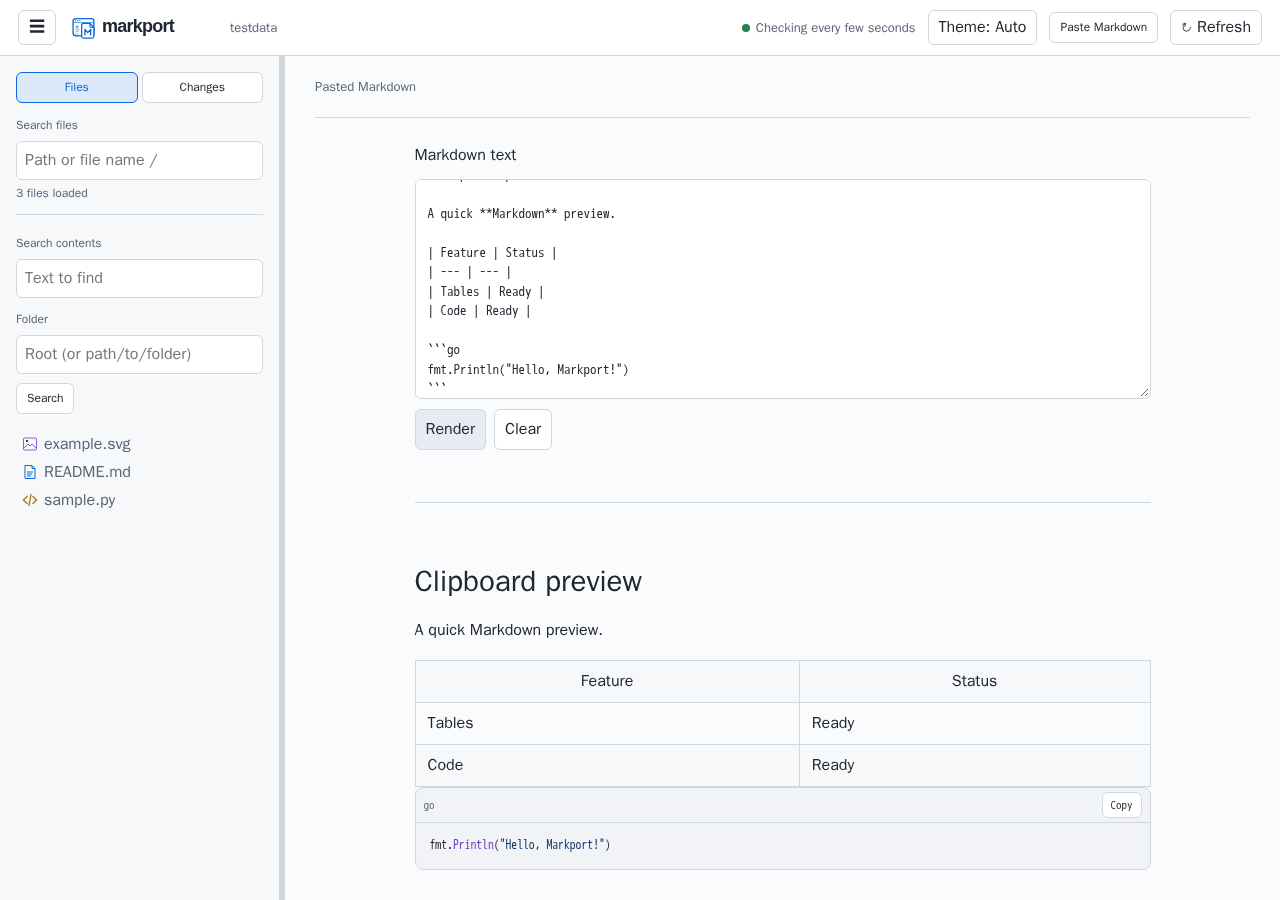
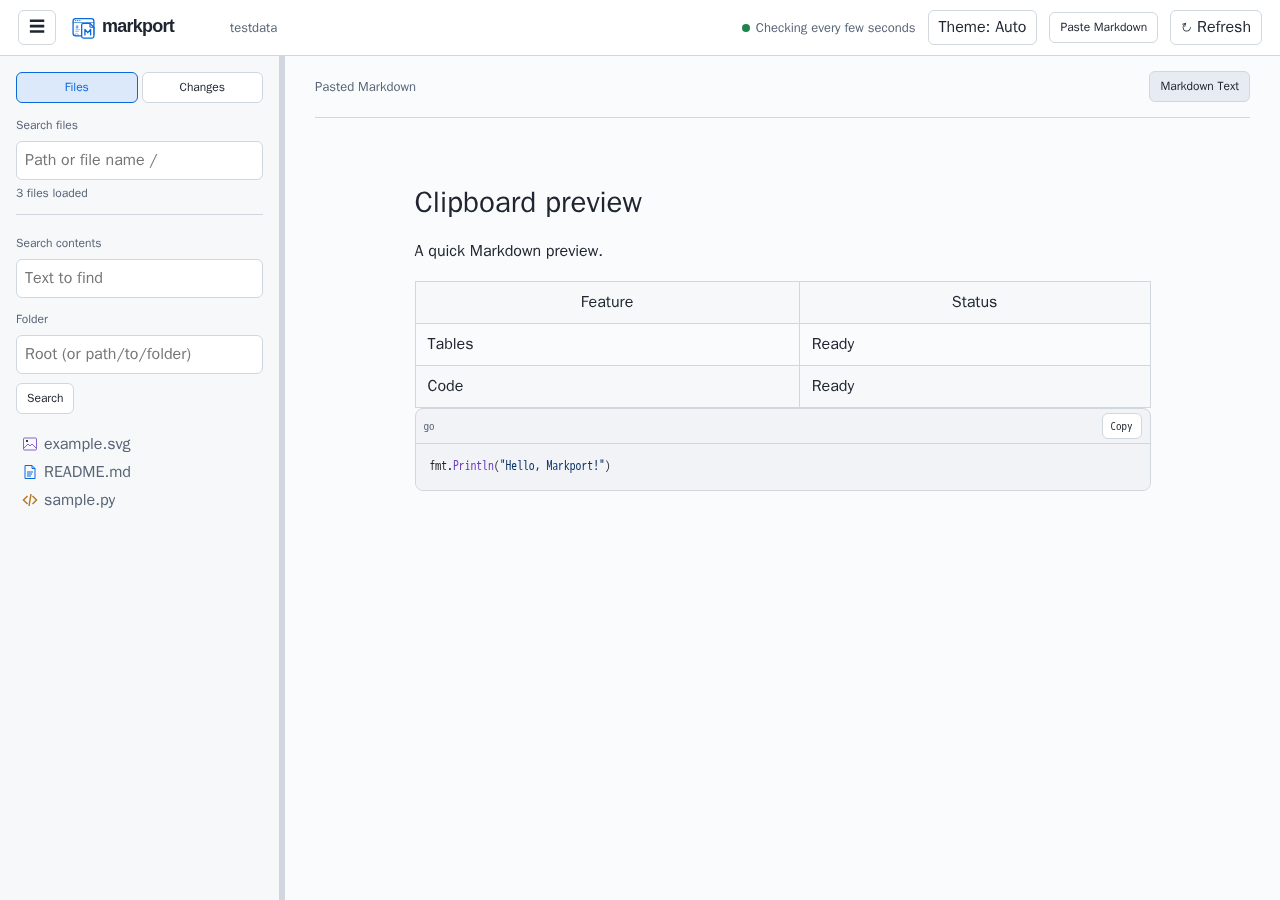
Switch pasted Markdown between text and rendered views

diff --git a/web/src/style.css b/web/src/style.css
@@ -4,7 +4,7 @@
 *{box-sizing:border-box}body{margin:0;background:var(--bg);color:var(--text)}button,input,textarea{font:inherit}button{border:1px solid var(--border);background:var(--surface);color:var(--text);border-radius:6px;padding:6px 10px;cursor:pointer}button:hover{background:var(--hover)}button:disabled{opacity:.55;cursor:wait}button:focus-visible,input:focus-visible,textarea:focus-visible,nav a:focus-visible,summary:focus-visible{outline:2px solid var(--accent);outline-offset:-2px}.skip-link{position:absolute;left:10px;top:-60px;z-index:20;background:var(--surface);padding:8px;color:var(--accent)}.skip-link:focus{top:4px}
 header{height:56px;display:flex;align-items:center;gap:12px;padding:0 18px;border-bottom:1px solid var(--border);background:var(--surface)}.brand{display:inline-flex;align-items:center;flex:none}.brand-horizontal{display:block;width:150px;height:35px}.brand-symbol{display:none}#root-name{font-size:13px;color:var(--text-muted);margin-right:auto;overflow:hidden;text-overflow:ellipsis;white-space:nowrap}#connection{display:flex;align-items:center;gap:6px;font-size:13px;color:var(--text-muted);white-space:nowrap}#connection:before{content:"";width:8px;height:8px;border-radius:50%;background:var(--warning)}#connection[data-state=ok]:before{background:var(--success)}#connection[data-state=error]:before{background:var(--danger)}#drawer-toggle{display:none}.reload-icon{display:inline-block;font-size:18px;line-height:14px}#reload:disabled .reload-icon{animation:spin 1s linear infinite}@keyframes spin{to{transform:rotate(360deg)}}
 #paste-toggle{font-size:12px;white-space:nowrap}
-.paste-editor{display:grid;gap:10px;margin:24px 0}.paste-editor label{font-weight:650}.paste-editor textarea{width:100%;min-height:220px;resize:vertical;padding:12px;border:1px solid var(--border);border-radius:6px;background:var(--surface);color:var(--text);font-family:var(--mono);font-size:13px;line-height:1.5}.paste-actions{display:flex;gap:8px}.paste-notice{min-height:1.4em;margin:0;color:var(--text-muted);font-size:13px}.paste-notice.error{color:var(--danger)}.paste-preview{border-top:1px solid var(--border);padding-top:18px}.paste-preview:empty{display:none}
+.paste-editor{display:grid;gap:10px;margin:24px 0}.paste-editor label{font-weight:650}.paste-editor textarea{width:100%;min-height:clamp(320px,55vh,700px);resize:vertical;padding:12px;border:1px solid var(--border);border-radius:6px;background:var(--surface);color:var(--text);font-family:var(--mono);font-size:13px;line-height:1.5}.paste-actions{display:flex;gap:8px}.paste-notice{min-height:1.4em;margin:0;color:var(--text-muted);font-size:13px}.paste-notice.error{color:var(--danger)}
 .layout{display:grid;grid-template-columns:var(--sidebar-width) 5px minmax(0,1fr);height:calc(100vh - 56px)}aside{border-right:1px solid var(--border);overflow:auto;padding:16px;background:var(--sidebar);min-width:0}aside.collapsed{display:none}.layout:has(aside.collapsed){grid-template-columns:minmax(0,1fr)}.layout:has(aside.collapsed) #sidebar-resize{display:none}#sidebar-resize{cursor:col-resize;background:var(--border)}aside label{display:block;font-size:12px;font-weight:650;color:var(--text-muted)}input{width:100%;margin:7px 0 5px;padding:8px;border:1px solid var(--border);border-radius:6px;background:var(--surface);color:var(--text)}#result-count{display:block;margin-bottom:12px;font-size:12px;color:var(--text-muted)}nav ul{list-style:none;padding-left:13px;margin:2px 0;border-left:1px solid var(--border)}nav>ul{padding-left:0;border-left:0}nav li{min-width:0}nav a,nav summary{display:flex;align-items:center;gap:6px;min-height:28px;min-width:0;padding:2px 6px;border-radius:4px;color:var(--text-muted);text-decoration:none;cursor:pointer}nav a:hover,nav summary:hover{background:var(--hover)}nav a[aria-current]{background:var(--accent-soft);color:var(--accent);font-weight:650;border-left:3px solid var(--accent);padding-left:3px}nav summary{list-style:none}nav summary::-webkit-details-marker{display:none}.chevron{font-size:18px;line-height:1;transition:transform .15s}details[open]>summary .chevron{transform:rotate(90deg)}nav svg{width:16px;height:16px;flex:none}nav .file-markdown svg{color:var(--accent)}nav .file-image svg{color:#8a63c9}nav .file-code svg{color:#b67b24}.node-label{overflow:hidden;text-overflow:ellipsis;white-space:nowrap}mark{background:#ffdb6d;color:#352700}.search-results{padding:0;border:0}.search-results .node-label{font-size:12px}
 main{overflow:auto;padding:0 30px 80px;min-width:0}#connection-banner{margin:0 -30px;padding:7px 30px;background:var(--danger-bg);color:var(--danger);font-size:13px}#connection-banner[hidden]{display:none}#connection-banner button{margin-left:12px}#file-title{position:sticky;top:0;z-index:5;display:flex;align-items:center;justify-content:space-between;gap:12px;min-height:var(--titlebar-h);background:var(--bg);border-bottom:1px solid var(--border);padding:8px 0;color:var(--text-muted);font-size:13px}#file-title.updated{box-shadow:inset 0 -3px var(--success)}.breadcrumbs{min-width:0;overflow:hidden;text-overflow:ellipsis;white-space:nowrap}.breadcrumbs strong{color:var(--text)}.breadcrumbs .missing{text-decoration:line-through}.crumb{border:0;background:none;padding:2px;color:var(--accent)}.title-actions{display:flex;align-items:center;gap:6px;white-space:nowrap}.title-actions button{font-size:12px}.kind-badge{border:1px solid var(--border);border-radius:12px;padding:2px 8px}.update-note{color:var(--success);font-weight:650}#progress{position:sticky;top:var(--titlebar-h);height:3px;background:linear-gradient(90deg,transparent,var(--accent),transparent);z-index:6;animation:progress 1.2s ease-in-out infinite}#progress[hidden]{display:none}@keyframes progress{from{background-position:-200px 0}to{background-position:200px 0}}
 .content-layout{display:grid;grid-template-columns:minmax(0,1fr);gap:25px}.content-layout:has(#outline:not([hidden])){grid-template-columns:minmax(0,1fr) 190px}article{max-width:46em;width:100%;margin:24px auto;line-height:1.68;overflow-wrap:anywhere}article[data-kind=code]{max-width:none;font-family:var(--mono);line-height:1.5}article>*:first-child{margin-top:0}article :is(h1,h2,h3,h4,h5,h6){line-height:1.3;margin:1.4em 0 .55em;scroll-margin-top:calc(var(--titlebar-h) + 12px)}article h1{font-size:1.85em}article h2{font-size:1.45em;border-bottom:1px solid var(--border);padding-bottom:.3em}article h3{font-size:1.25em}article h4{font-size:1.1em}article h5{font-size:1em}article h6{font-size:.9em;color:var(--text-muted)}article a{color:var(--accent)}article img{max-width:100%}.table-wrap{overflow-x:auto;max-width:100%}article table{border-collapse:collapse;width:max-content;min-width:100%}article th,article td{padding:7px 12px;border:1px solid var(--border)}article thead{position:relative;z-index:1;background:var(--sidebar)}article tr:nth-child(even){background:var(--sidebar)}article pre{overflow-x:auto;max-width:100%;padding:14px;background:var(--code-bg);border-radius:7px;line-height:1.5;font-family:var(--mono);font-size:.9em}article pre code{white-space:pre}article :not(pre)>code,article kbd{background:var(--code-bg);padding:2px 4px;border-radius:4px;font-family:var(--mono);font-size:.9em}article kbd{border:1px solid var(--border)}article blockquote{border-left:3px solid var(--border);padding-left:16px;color:var(--text-muted);margin-left:0}article ul,article ol{padding-left:1.5em}article li+li{margin-top:.25em}article li:has(> input[type=checkbox]){list-style:none;margin-left:-1.2em}article li>input[type=checkbox]{width:auto;margin-right:.5em}article hr{border:0;border-top:1px solid var(--border);margin:2em 0}article details{border:1px solid var(--border);border-radius:6px;padding:8px 12px}article summary{cursor:pointer}.hint{color:var(--text-muted)}.empty-state{padding:60px 0;text-align:center;color:var(--text-muted)}.empty-state h2{color:var(--text)}.file-error{color:var(--danger);background:var(--danger-bg);padding:20px;border-radius:8px}.file-error h2{font-size:1.2em;margin:8px 0}.file-error p{margin:0 0 16px}.diagram-error{color:var(--danger)}.image-error{display:inline-block;padding:16px;border:1px dashed var(--danger);color:var(--danger)}
@@ -12,7 +12,7 @@ main{overflow:auto;padding:0 30px 80px;min-width:0}#connection-banner{margin:0 -
 #outline{position:sticky;top:calc(var(--titlebar-h) + 20px);align-self:start;max-height:calc(100vh - 110px);overflow:auto;padding:10px 0;font-size:12px}#outline[hidden]{display:none}#outline a{display:block;text-decoration:none;color:var(--text-muted);padding:4px 8px;border-left:2px solid var(--border)}#outline a.active{color:var(--accent);border-color:var(--accent)}#outline .outline-h3,#outline .outline-h4,#outline .outline-h5,#outline .outline-h6{padding-left:20px}#outline-toggle{display:none}
 @media(max-width:1199px){.content-layout{display:block}#outline{display:none;position:fixed;right:20px;top:110px;z-index:10;background:var(--surface);border:1px solid var(--border);padding:10px;box-shadow:0 8px 28px #0004}#outline.open{display:block}#outline-toggle:not([hidden]){display:inline-block}}
 @media(max-width:700px){header{height:48px;padding:0 8px;gap:6px}.brand-horizontal{display:none}.brand-symbol{display:block;width:30px;height:30px}#drawer-toggle{display:inline-block}#sidebar-toggle{display:none}#root-name{font-size:11px}#connection .connection-label{position:absolute;width:1px;height:1px;padding:0;margin:-1px;overflow:hidden;clip:rect(0,0,0,0);white-space:nowrap;border:0}#connection:before{width:10px;height:10px}#theme-toggle{font-size:11px;padding:5px}#reload{font-size:0;padding:5px}#reload .reload-icon{font-size:19px}.layout{display:block;height:calc(100vh - 48px)}aside{position:fixed;top:48px;bottom:0;left:0;width:min(85vw,360px);z-index:20;box-shadow:5px 0 18px #0004;transform:translateX(-110%);transition:transform .2s}aside.open{transform:translateX(0)}#sidebar-resize{display:none}main{height:100%;padding:0 16px 60px}#connection-banner{margin:0 -16px;padding:7px 16px}#file-title{align-items:flex-start;flex-direction:column;padding:8px 0;min-height:70px}.title-actions{max-width:100%;overflow-x:auto}nav a,nav summary{min-height:40px}article{margin:18px auto}article .code-frame,article .table-wrap{margin-left:-16px;margin-right:-16px;border-radius:0}#outline{right:10px;top:100px}}
-@media(max-width:700px){#paste-toggle{font-size:11px;padding:5px}.paste-editor textarea{min-height:180px}}
+@media(max-width:700px){#paste-toggle{font-size:11px;padding:5px}.paste-editor textarea{min-height:45vh}}
 @media(prefers-reduced-motion:reduce){*,*:before,*:after{animation:none!important;transition:none!important;scroll-behavior:auto!important}}
 
 #file-title:focus{outline:none}

diff --git a/web/src/main.ts b/web/src/main.ts
@@ -73,6 +73,7 @@ const maxPasteBytes = 1 << 20;
 let pastedMarkdown = '';
 try { pastedMarkdown = sessionStorage.getItem(pasteStorageKey) ?? ''; } catch { /* Storage may be unavailable. */ }
 let pasteVersion = 0;
+let refreshPastedPreview: (() => void) | undefined;
 let loadingTimer: ReturnType<typeof setTimeout> | undefined;
 let updatedTimer: ReturnType<typeof setTimeout> | undefined;
 let searchIndexTimer: ReturnType<typeof setTimeout> | undefined;
@@ -352,43 +353,53 @@ function showEmpty(): void {
 }
 function showPaste(): void {
   content.dataset.kind = 'paste';
-  title.textContent = 'Pasted Markdown';
+  const heading = document.createElement('strong'); heading.textContent = 'Pasted Markdown';
+  const titleActions = document.createElement('div'); titleActions.className = 'title-actions';
+  const toggle = document.createElement('button'); toggle.type = 'button'; toggle.id = 'paste-view-toggle'; toggle.textContent = 'Rendered view';
+  titleActions.append(toggle); title.replaceChildren(heading, titleActions);
   document.title = 'Pasted Markdown — markport';
   outline.hidden = true;
   const editor = document.createElement('div'); editor.className = 'paste-editor';
-  const label = document.createElement('label'); label.htmlFor = 'paste-input'; label.textContent = 'Markdown text';
+  const label = document.createElement('label'); label.htmlFor = 'paste-input'; label.textContent = 'Markdown Text';
   const input = document.createElement('textarea'); input.id = 'paste-input'; input.placeholder = 'Paste Markdown here'; input.value = pastedMarkdown;
   const actions = document.createElement('div'); actions.className = 'paste-actions';
-  const renderButton = document.createElement('button'); renderButton.type = 'button'; renderButton.textContent = 'Render';
   const clearButton = document.createElement('button'); clearButton.type = 'button'; clearButton.textContent = 'Clear';
   const notice = document.createElement('p'); notice.className = 'paste-notice'; notice.setAttribute('role', 'status');
-  const preview = document.createElement('div'); preview.className = 'paste-preview';
-  actions.append(renderButton, clearButton); editor.append(label, input, actions, notice);
+  const preview = document.createElement('div'); preview.className = 'paste-preview'; preview.hidden = true;
+  actions.append(clearButton); editor.append(label, input, actions, notice);
   content.replaceChildren(editor, preview);
+  let rendered = false;
+  let renderedMarkdown = '';
   const message = (text: string, error = false): void => { notice.textContent = text; notice.classList.toggle('error', error); };
-  const clearPreview = (): void => { preview.replaceChildren(); updateOutline(); };
-  const renderPaste = async (): Promise<void> => {
+  const showText = (): void => {
+    pasteVersion++; rendered = false; editor.hidden = false; preview.hidden = true; toggle.textContent = 'Rendered view';
+    outlineObserver?.disconnect(); outline.replaceChildren(); outline.hidden = true; input.focus();
+  };
+  const renderPaste = async (force = false): Promise<void> => {
     const markdown = input.value;
-    const current = ++pasteVersion;
-    clearPreview();
     if (!markdown.trim()) { message('Paste Markdown text to render.', true); return; }
     if (new TextEncoder().encode(markdown).length > maxPasteBytes) { message('Markdown exceeds the 1 MiB limit.', true); return; }
-    renderButton.disabled = true; message('Rendering…');
+    const current = ++pasteVersion;
+    rendered = true; editor.hidden = true; preview.hidden = false; toggle.textContent = 'Markdown Text';
+    if (!force && renderedMarkdown === markdown) { updateOutline(); return; }
+    preview.textContent = 'Rendering…'; outline.hidden = true;
     try {
       const response = await fetch('/api/render', { method: 'POST', headers: { 'Content-Type': 'application/json' }, body: JSON.stringify({ markdown }) });
       const body = await response.json() as { html?: string } & ApiError;
       if (!response.ok) throw new RequestError(body.error ?? 'network', body.message ?? `HTTP ${response.status}`);
       if (typeof body.html !== 'string') throw new RequestError('invalid_response', 'Invalid render response');
-      if (current !== pasteVersion || selectedMode() !== 'paste') return;
-      preview.innerHTML = body.html; decorateContent(); updateOutline();
+      if (current !== pasteVersion || selectedMode() !== 'paste' || !rendered) return;
+      preview.innerHTML = body.html; renderedMarkdown = markdown; decorateContent(); updateOutline();
       message('');
-      void drawMermaid(content, () => current === pasteVersion && selectedMode() === 'paste');
+      void drawMermaid(content, () => current === pasteVersion && selectedMode() === 'paste' && rendered);
     } catch (error) {
-      if (current === pasteVersion && selectedMode() === 'paste') message(error instanceof Error ? error.message : 'Cannot render Markdown.', true);
-    } finally { if (current === pasteVersion) renderButton.disabled = false; }
+      if (current === pasteVersion && selectedMode() === 'paste' && rendered) {
+        showText(); message(error instanceof Error ? error.message : 'Cannot render Markdown.', true);
+      }
+    }
   };
   input.addEventListener('input', () => {
-    pasteVersion++; pastedMarkdown = input.value; renderButton.disabled = false; clearPreview(); message('');
+    pasteVersion++; pastedMarkdown = input.value; renderedMarkdown = ''; preview.replaceChildren(); message('');
     try {
       if (new TextEncoder().encode(pastedMarkdown).length > maxPasteBytes) {
         sessionStorage.removeItem(pasteStorageKey); message('Markdown exceeds the 1 MiB limit.', true);
@@ -396,13 +407,13 @@ function showPaste(): void {
       else sessionStorage.removeItem(pasteStorageKey);
     } catch { message('This tab could not save the text for reloading.', true); }
   });
-  renderButton.addEventListener('click', () => { void renderPaste(); });
+  toggle.addEventListener('click', () => { if (rendered) showText(); else void renderPaste(); });
   clearButton.addEventListener('click', () => {
-    pasteVersion++; pastedMarkdown = ''; input.value = ''; renderButton.disabled = false; clearPreview(); message('');
+    pasteVersion++; pastedMarkdown = ''; renderedMarkdown = ''; input.value = ''; preview.replaceChildren(); message('');
     try { sessionStorage.removeItem(pasteStorageKey); } catch { message('This tab could not clear saved text.', true); }
     input.focus();
   });
-  if (pastedMarkdown) void renderPaste();
+  refreshPastedPreview = () => { if (rendered) void renderPaste(true); };
 }
 function showError(error: unknown, path: string): void {
   const code = error instanceof RequestError ? error.code : 'network';
@@ -495,7 +506,7 @@ function requestRefresh(foreground = true): void {
 }
 function manualRefresh(): void {
   displayedTag = ''; pageTags.clear(); previewReload++; requestRefresh();
-  if (selectedMode() === 'paste' && pastedMarkdown) document.querySelector<HTMLButtonElement>('.paste-actions button')?.click();
+  if (selectedMode() === 'paste') refreshPastedPreview?.();
   if (search.value.trim()) void loadSearchIndex();
 }
 
@@ -655,7 +666,7 @@ const resize = document.querySelector<HTMLElement>('#sidebar-resize')!;
 resize.addEventListener('pointerdown', (event) => { resize.setPointerCapture(event.pointerId); });
 resize.addEventListener('pointermove', (event) => { if (!resize.hasPointerCapture(event.pointerId)) return; const width = Math.max(200, Math.min(480, event.clientX)); document.documentElement.style.setProperty('--sidebar-width', `${width}px`); localStorage.setItem('markport-sidebar-width', String(width)); });
 resize.addEventListener('keydown', (event) => { if (event.key !== 'ArrowLeft' && event.key !== 'ArrowRight') return; const width = Math.max(200, Math.min(480, Number(localStorage.getItem('markport-sidebar-width') ?? 280) + (event.key === 'ArrowRight' ? 10 : -10))); document.documentElement.style.setProperty('--sidebar-width', `${width}px`); localStorage.setItem('markport-sidebar-width', String(width)); });
-initTheme(document.querySelector<HTMLButtonElement>('#theme-toggle')!, () => { updateBrand(); if (content.querySelector('[data-mermaid]')) { if (selectedMode() === 'paste') document.querySelector<HTMLButtonElement>('.paste-actions button')?.click(); else { displayedHTML = ''; requestRefresh(); } } });
+initTheme(document.querySelector<HTMLButtonElement>('#theme-toggle')!, () => { updateBrand(); if (content.querySelector('[data-mermaid]')) { if (selectedMode() === 'paste') refreshPastedPreview?.(); else { displayedHTML = ''; requestRefresh(); } } });
 updateBrand();
 status('Checking every few seconds', 'ok');
 requestRefresh();

diff --git a/web/tests/main.test.ts b/web/tests/main.test.ts
@@ -23,7 +23,7 @@ beforeEach(() => {
 afterEach(() => { window.dispatchEvent(new Event('pagehide')); vi.unstubAllGlobals(); });
 
 describe('lazy browsing and refresh', () => {
-  it('renders pasted Markdown, keeps the editor during refresh, and restores it after navigation', async () => {
+  it('switches pasted Markdown between text and rendered views without losing the draft', async () => {
     const fetch = vi.fn(async (url: string, options?: RequestInit) => {
       if (url === '/api/tree') return reply({ ...page([entry('README.md')]), readme: 'README.md' });
       if (url === '/api/render') return reply({ html: `<h1>${JSON.parse(options?.body as string).markdown.slice(2)}</h1>` });
@@ -35,21 +35,37 @@ describe('lazy browsing and refresh', () => {
     document.querySelector<HTMLButtonElement>('#paste-toggle')!.click(); await flush();
     const input = document.querySelector<HTMLTextAreaElement>('#paste-input')!;
     input.value = '# First'; input.dispatchEvent(new Event('input'));
-    document.querySelector<HTMLButtonElement>('.paste-actions button')!.click(); await flush();
+    const toggle = document.querySelector<HTMLButtonElement>('#paste-view-toggle')!;
+    expect(toggle.textContent).toBe('Rendered view');
+    expect(document.querySelector<HTMLElement>('.paste-preview')?.hidden).toBe(true);
+    expect(fetch.mock.calls.filter(([url]) => url === '/api/render')).toHaveLength(0);
+    toggle.click(); await flush();
     expect(document.querySelector('.paste-preview h1')?.textContent).toBe('First');
+    expect(input.closest<HTMLElement>('.paste-editor')?.hidden).toBe(true);
+    expect(toggle.textContent).toBe('Markdown Text');
     expect(sessionStorage.getItem('markport-pasted-markdown')).toBe('# First');
     document.querySelector<HTMLButtonElement>('#paste-toggle')!.click();
     expect(document.querySelector('#paste-input')).toBe(input);
     document.dispatchEvent(new Event('visibilitychange')); await flush();
-    expect(document.querySelector('#paste-input')).toBe(input);
+    expect(document.querySelector('.paste-preview h1')?.textContent).toBe('First');
+    toggle.click();
+    expect(input.closest<HTMLElement>('.paste-editor')?.hidden).toBe(false);
+    expect(document.querySelector<HTMLElement>('.paste-preview')?.hidden).toBe(true);
+    toggle.click(); await flush();
+    expect(fetch.mock.calls.filter(([url]) => url === '/api/render')).toHaveLength(1);
+    toggle.click();
     input.value = '# Second'; input.dispatchEvent(new Event('input'));
     expect(document.querySelector('.paste-preview h1')).toBeNull();
+    toggle.click(); await flush();
+    expect(document.querySelector('.paste-preview h1')?.textContent).toBe('Second');
+    expect(fetch.mock.calls.filter(([url]) => url === '/api/render')).toHaveLength(2);
     document.querySelector<HTMLButtonElement>('#files-tab')!.click(); await flush();
     expect(document.querySelector('#content h1')?.textContent).toBe('File');
     document.querySelector<HTMLButtonElement>('#paste-toggle')!.click(); await flush();
     expect(document.querySelector<HTMLTextAreaElement>('#paste-input')?.value).toBe('# Second');
-    expect(document.querySelector('.paste-preview h1')?.textContent).toBe('Second');
-    document.querySelector<HTMLButtonElement>('.paste-actions button:nth-child(2)')!.click();
+    expect(document.querySelector<HTMLElement>('.paste-preview')?.hidden).toBe(true);
+    expect(document.querySelector('#paste-view-toggle')?.textContent).toBe('Rendered view');
+    document.querySelector<HTMLButtonElement>('.paste-actions button')!.click();
     expect(sessionStorage.getItem('markport-pasted-markdown')).toBeNull();
     expect(document.querySelector('.paste-preview h1')).toBeNull();
   });
@@ -60,8 +76,10 @@ describe('lazy browsing and refresh', () => {
     document.querySelector<HTMLButtonElement>('#paste-toggle')!.click(); await flush();
     const input = document.querySelector<HTMLTextAreaElement>('#paste-input')!;
     input.value = '# Keep me'; input.dispatchEvent(new Event('input'));
-    document.querySelector<HTMLButtonElement>('.paste-actions button')!.click(); await flush();
+    document.querySelector<HTMLButtonElement>('#paste-view-toggle')!.click(); await flush();
     expect(input.value).toBe('# Keep me');
+    expect(input.closest<HTMLElement>('.paste-editor')?.hidden).toBe(false);
+    expect(document.querySelector('#paste-view-toggle')?.textContent).toBe('Rendered view');
     expect(document.querySelector('.paste-notice')?.textContent).toBe('Cannot render Markdown');
   });
 

diff --git a/web/e2e/browser.e2e.ts b/web/e2e/browser.e2e.ts
@@ -117,16 +117,23 @@ test('shows partial content results and cancels an active search', async ({ page
 test('previews pasted Markdown and restores it after reloading the tab', async ({ page }) => {
   await page.goto(`http://127.0.0.1:${port}/?path=README.md`);
   await page.getByRole('button', { name: 'Paste Markdown' }).click();
-  await page.getByLabel('Markdown text').fill('# Pasted\n\n[Local](sample.py) [Jump](#pasted)');
-  await page.getByRole('button', { name: 'Render', exact: true }).click();
+  await page.getByLabel('Markdown Text').fill('# Pasted\n\n[Local](sample.py) [Jump](#pasted)');
+  await expect(page.locator('.paste-preview')).toBeHidden();
+  await page.getByRole('button', { name: 'Rendered view' }).click();
   await expect(page.locator('.paste-preview h1')).toHaveText('Pasted');
+  await expect(page.getByLabel('Markdown Text')).toBeHidden();
   await expect(page.locator('.paste-preview a', { hasText: 'Local' })).toHaveCount(0);
   await expect(page.locator('.paste-preview a', { hasText: 'Jump' })).toHaveAttribute('href', '#pasted');
-  await page.reload();
-  await expect(page.getByLabel('Markdown text')).toHaveValue('# Pasted\n\n[Local](sample.py) [Jump](#pasted)');
+  await page.getByRole('button', { name: 'Markdown Text' }).click();
+  await expect(page.getByLabel('Markdown Text')).toBeVisible();
+  await expect(page.locator('.paste-preview')).toBeHidden();
+  await page.getByRole('button', { name: 'Rendered view' }).click();
   await expect(page.locator('.paste-preview h1')).toHaveText('Pasted');
+  await page.reload();
+  await expect(page.getByLabel('Markdown Text')).toHaveValue('# Pasted\n\n[Local](sample.py) [Jump](#pasted)');
+  await expect(page.locator('.paste-preview')).toBeHidden();
   await page.getByRole('button', { name: 'Clear' }).click();
-  await expect(page.getByLabel('Markdown text')).toBeEmpty();
+  await expect(page.getByLabel('Markdown Text')).toBeEmpty();
   await expect(page.locator('.paste-preview h1')).toHaveCount(0);
 });
 

diff --git a/README.ja.md b/README.ja.md
@@ -38,7 +38,7 @@ Release の `checksums_<version>.txt` をダウンロードし、バイナリと
 
 `.git`、`node_modules`、`.venv` は表示から除外します。その他のドットファイルは表示します。シンボリックリンク、Windows のジャンクション、FIFO などの特殊ファイルは読みません。テキストは 10 MiB、画像は 32 MiB までです。バイナリや読めないファイルはそのファイルだけエラーを表示します。フォルダは開いたときに200件ずつ読み込みます。ファイル名検索は閲覧対象の全ファイルを対象とし、上位100件を表示します。開いたフォルダと表示中のファイルは約3秒ごとに確認し、検索中はファイル名一覧を約10秒ごとに更新します。閉じたフォルダは次に開いたときに更新します。「最新を取得」ボタンですぐに再取得できます。
 
-クリップボードの文章を確認するには、**Paste Markdown** を押して入力欄に貼り付け、**Render** を押します。通常の Markdown 機能を使えます。貼り付けた文章には基準フォルダがないため、相対リンクと画像は文字として表示します。文章は **Clear** を押すかタブを閉じるまで、再読み込み後も同じタブに残ります。表示のため Markport サーバーへ送信しますが、ファイルには保存しません。貼り付けられる Markdown は 1 MiB までです。
+クリップボードの文章を確認するには、**Paste Markdown** を押し、**Markdown Text** に貼り付けて **Rendered view** を押します。**Markdown Text** で編集画面に戻れます。通常の Markdown 機能を使えます。貼り付けた文章には基準フォルダがないため、相対リンクと画像は文字として表示します。文章は **Clear** を押すかタブを閉じるまで、再読み込み後も同じタブに残ります。再読み込み後は Markdown Text で開きます。表示のため Markport サーバーへ送信しますが、ファイルには保存しません。貼り付けられる Markdown は 1 MiB までです。
 
 ## 開発
 

diff --git a/README.md b/README.md
@@ -40,7 +40,7 @@ With no arguments, Markport serves the current directory on port 3000. Open the 
 
 Markport excludes `.git`, `node_modules`, and `.venv` from browsing. Other dotfiles remain visible. It does not read symbolic links, Windows junctions, or special files such as FIFOs. Text files are limited to 10 MiB, and image files to 32 MiB. Binary or unreadable files show an error for that file only. Folders load when opened, 200 entries at a time; filename search covers all browsable files and shows the top 100 matches. The browser checks the open folders and selected file about every three seconds, and refreshes the filename list every ten seconds while searching. Closed folders refresh when opened. Use the refresh button to fetch the latest state immediately.
 
-To preview text from the clipboard, click **Paste Markdown**, paste into the text area, and click **Render**. The preview supports the usual Markdown features. Relative links and images are shown as text because pasted content has no base directory. The text stays in the current browser tab through reloads until you click **Clear** or close the tab. It is sent to the Markport server for rendering but is not saved to a file. Pasted Markdown is limited to 1 MiB.
+To preview text from the clipboard, click **Paste Markdown**, paste into **Markdown Text**, then click **Rendered view**. Use **Markdown Text** to return to the editable text. The preview supports the usual Markdown features. Relative links and images are shown as text because pasted content has no base directory. The text stays in the current browser tab through reloads until you click **Clear** or close the tab; after a reload, it opens in Markdown Text. It is sent to the Markport server for rendering but is not saved to a file. Pasted Markdown is limited to 1 MiB.
 
 ## Development
 
